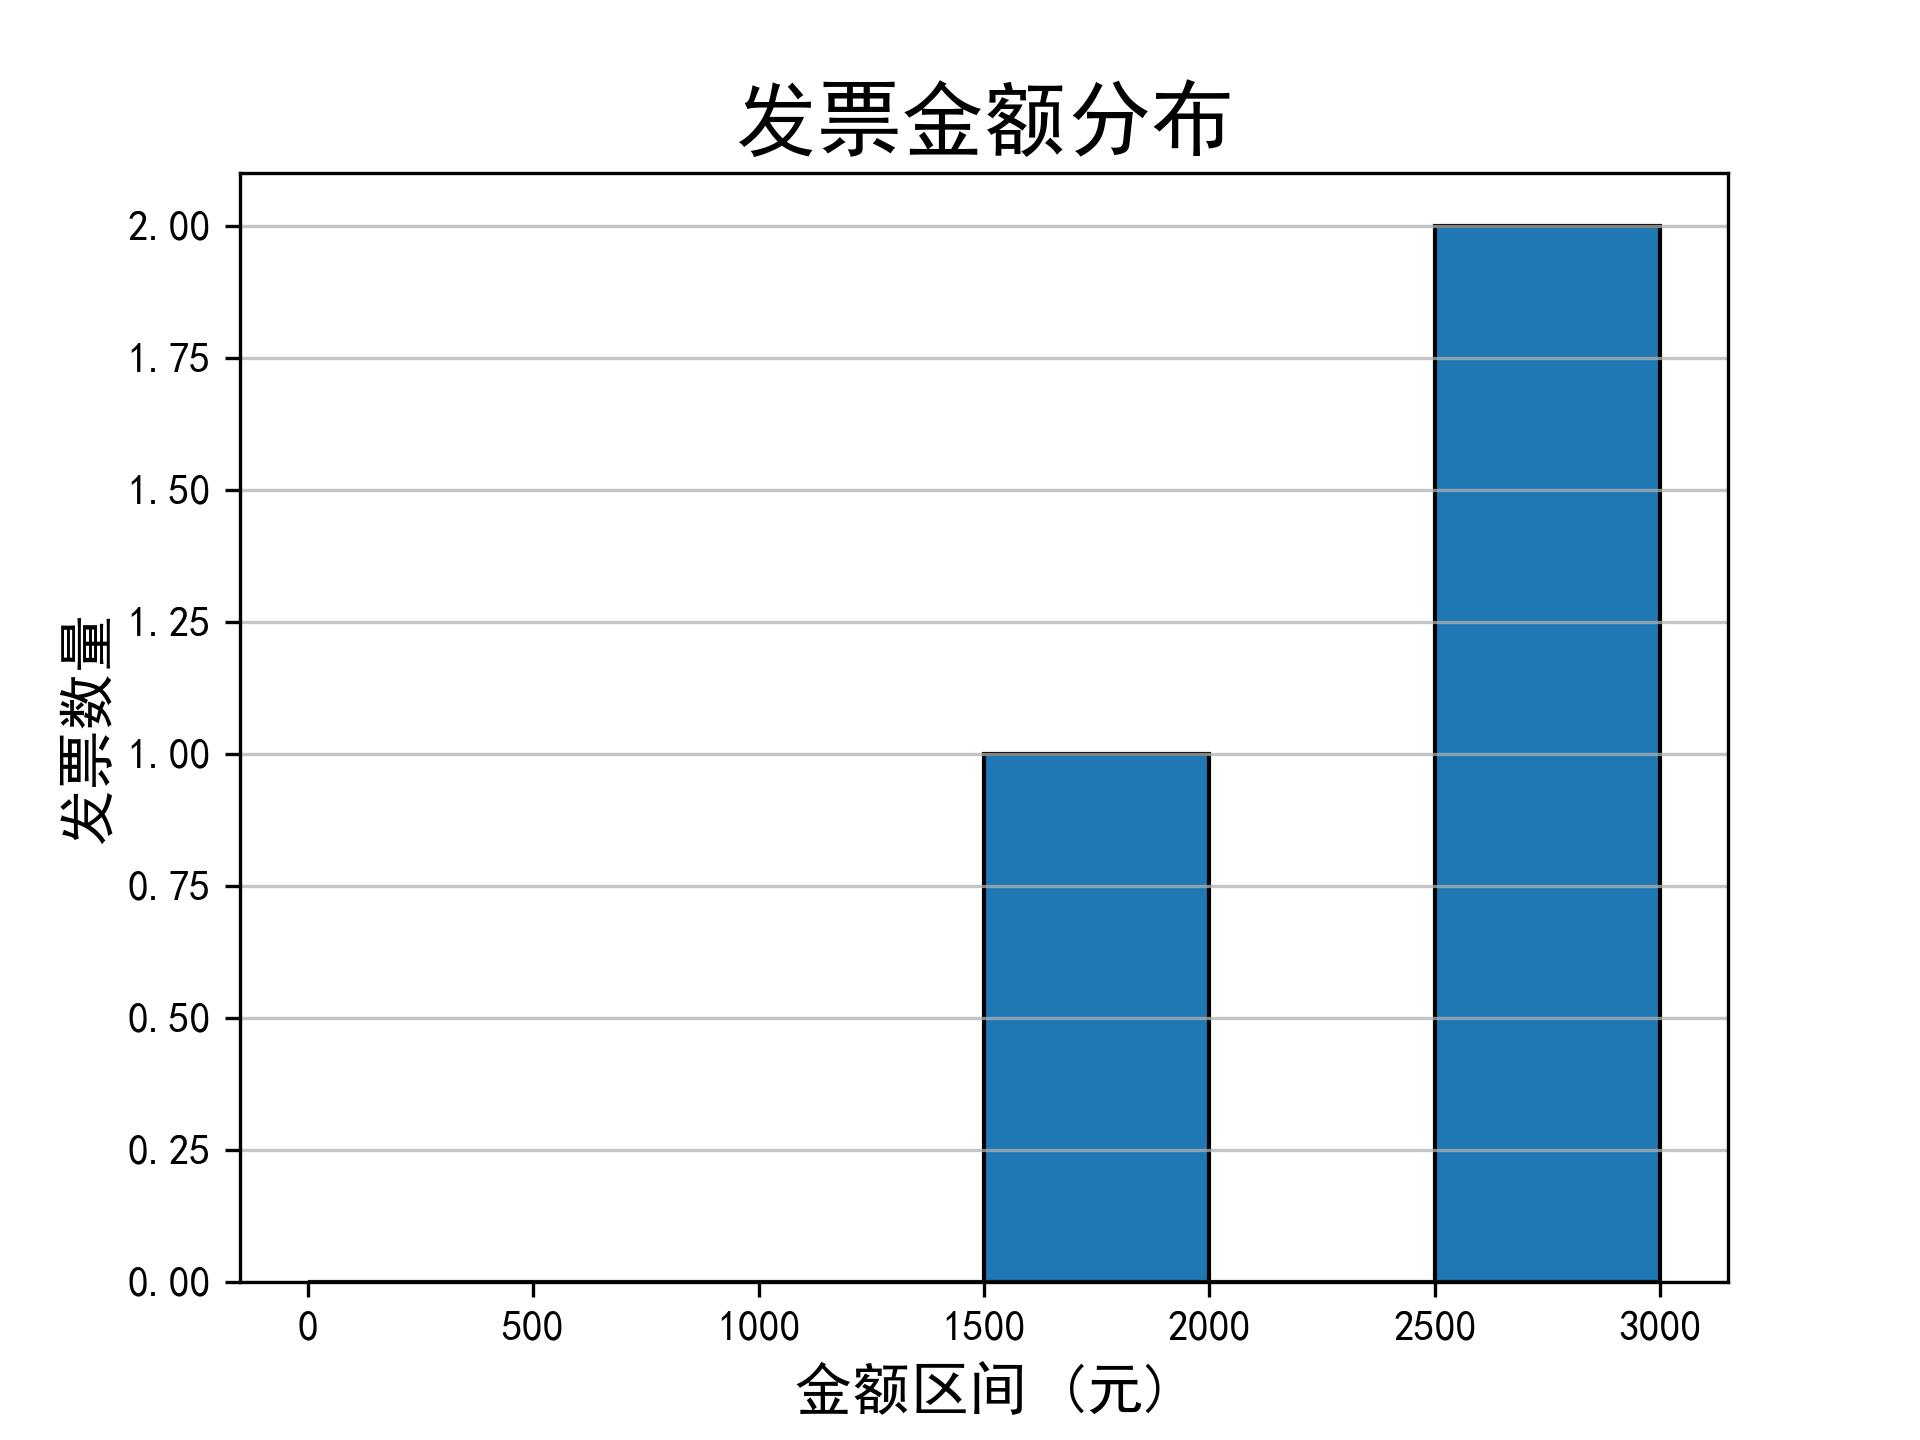
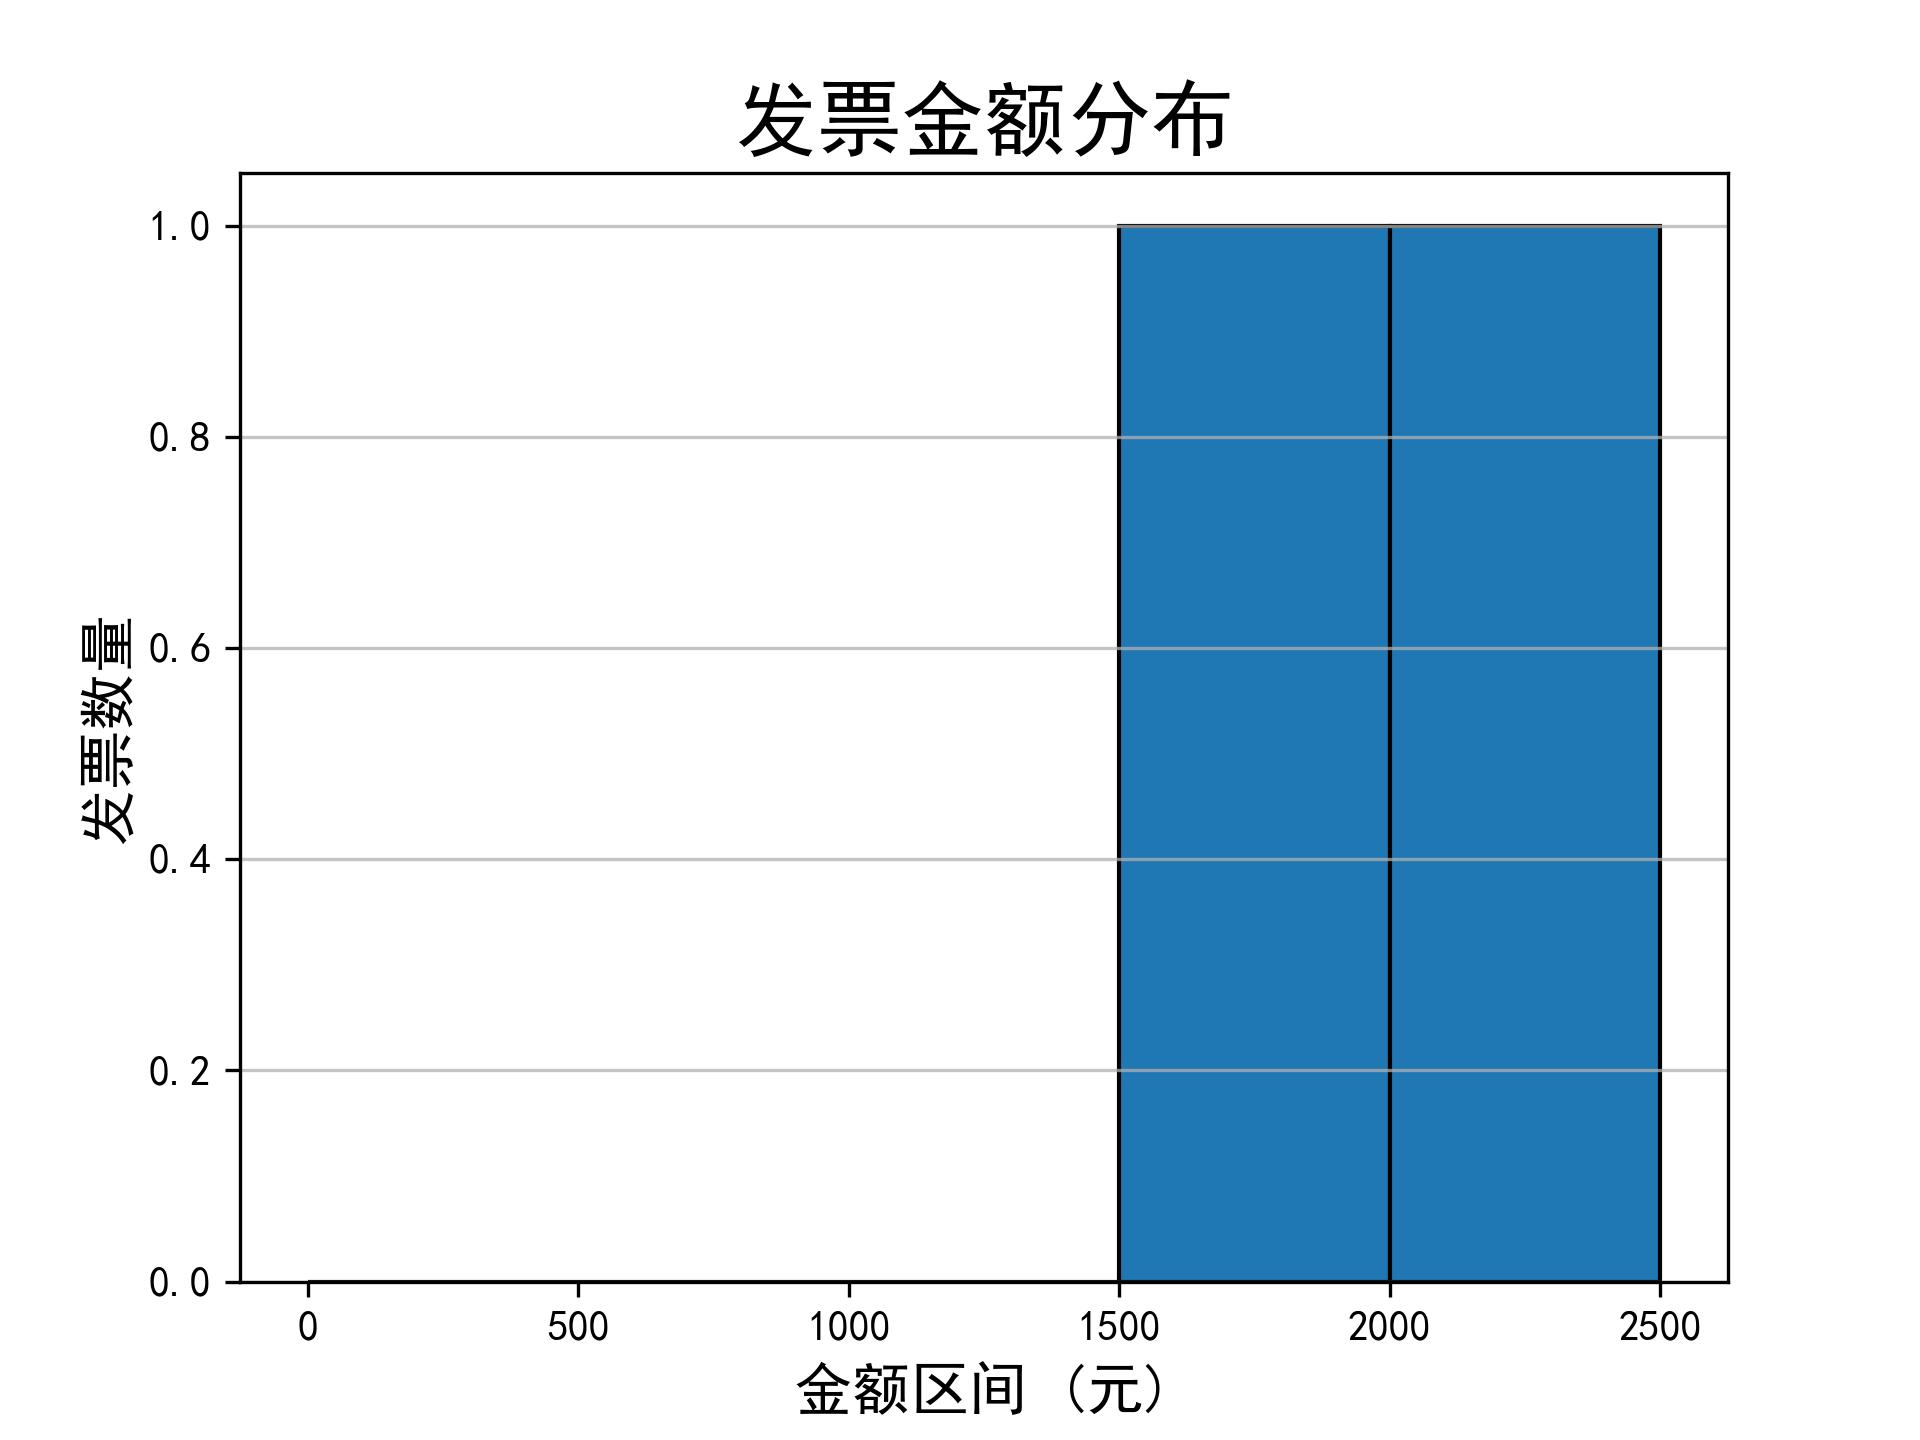
fix manual

diff --git a/flows/work/.py/report_xlsx_gen.py b/flows/work/.py/report_xlsx_gen.py
@@ -7,8 +7,11 @@ def write_invoices_to_excel(json_file, output_file):
     with open(json_file, 'r', encoding='utf-8') as file:
         invoices = json.load(file)
     
-    df = pd.DataFrame(invoices, columns=['invoice_number', 'seller', 'buyer', 'amount', 'transaction_date', 'approval_status','manual_review_reason','img_url'])
-    df.columns = ['发票号码', '卖方', '买方', '金额', '交易时间', '审批状态', '转人工审批原因', '图片链接']
+    df = pd.DataFrame(invoices, columns=['invoice_number', 'seller', 'buyer', 'amount', 'transaction_date', 'approval_status','img_url'])
+    df.columns = ['发票号码', '卖方', '买方', '金额', '交易时间', '审批状态', '图片链接']
+
+    # 需要进行过滤、如果approval_status为Manual Review则不计入
+    df = df[df['审批状态'] != 'Manual Review']
 
     with pd.ExcelWriter(output_file, engine='openpyxl', mode='a') as writer:
         df.to_excel(writer, index=False, sheet_name='发票数据详情')

diff --git a/flows/work/.py/report_jpg_gen.py b/flows/work/.py/report_jpg_gen.py
@@ -50,8 +50,8 @@ def plot_invoice_distribution(file_path, save_path):
     with open(file_path, 'r', encoding='utf-8') as f:
         invoices = json.load(f)
 
-    # 提取发票金额
-    amounts = [invoice["amount"] for invoice in invoices]
+    # 提取发票金额，注意要进行过滤、如果approval_status为Manual Review则不计入
+    amounts = [invoice['amount'] for invoice in invoices if invoice['approval_status'] != 'Manual Review']
 
     # 设置每500为一个区间
     bins = np.arange(0, max(amounts) + 500, 500)
